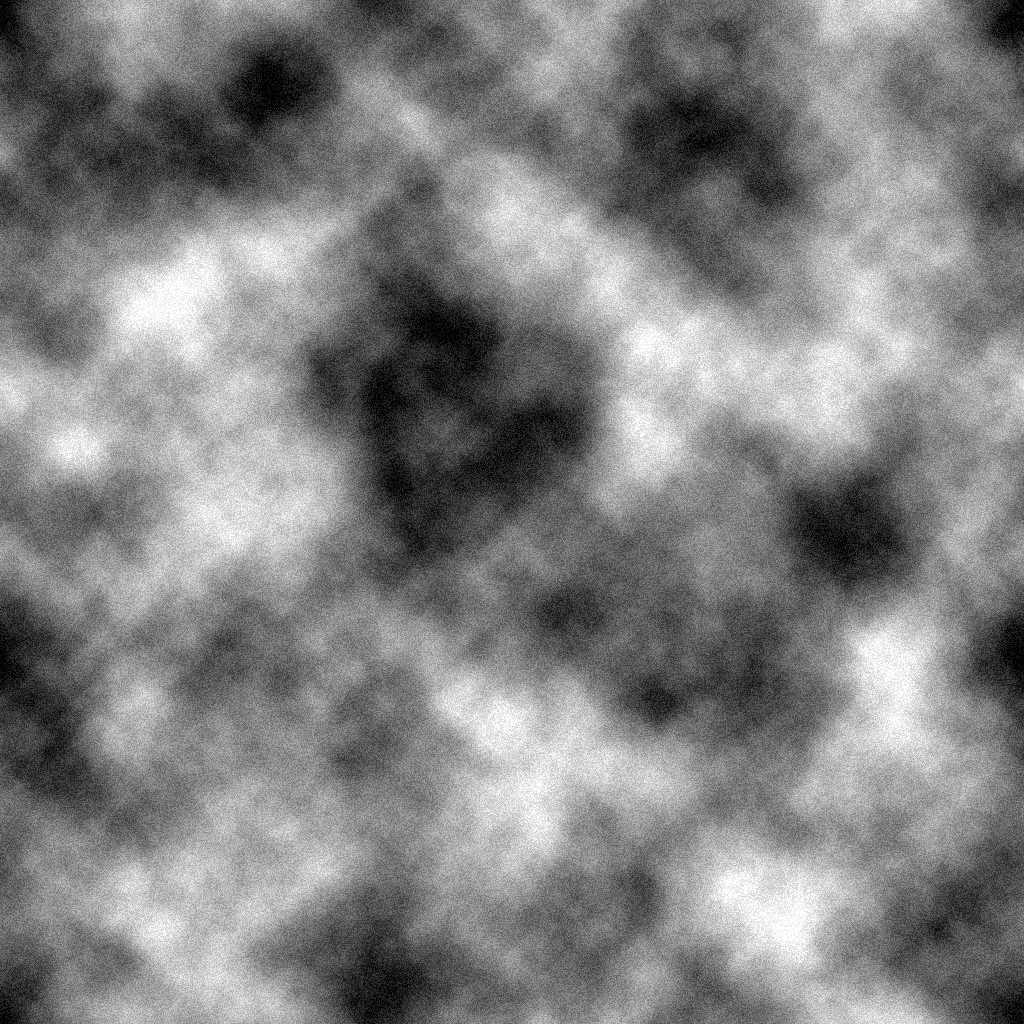
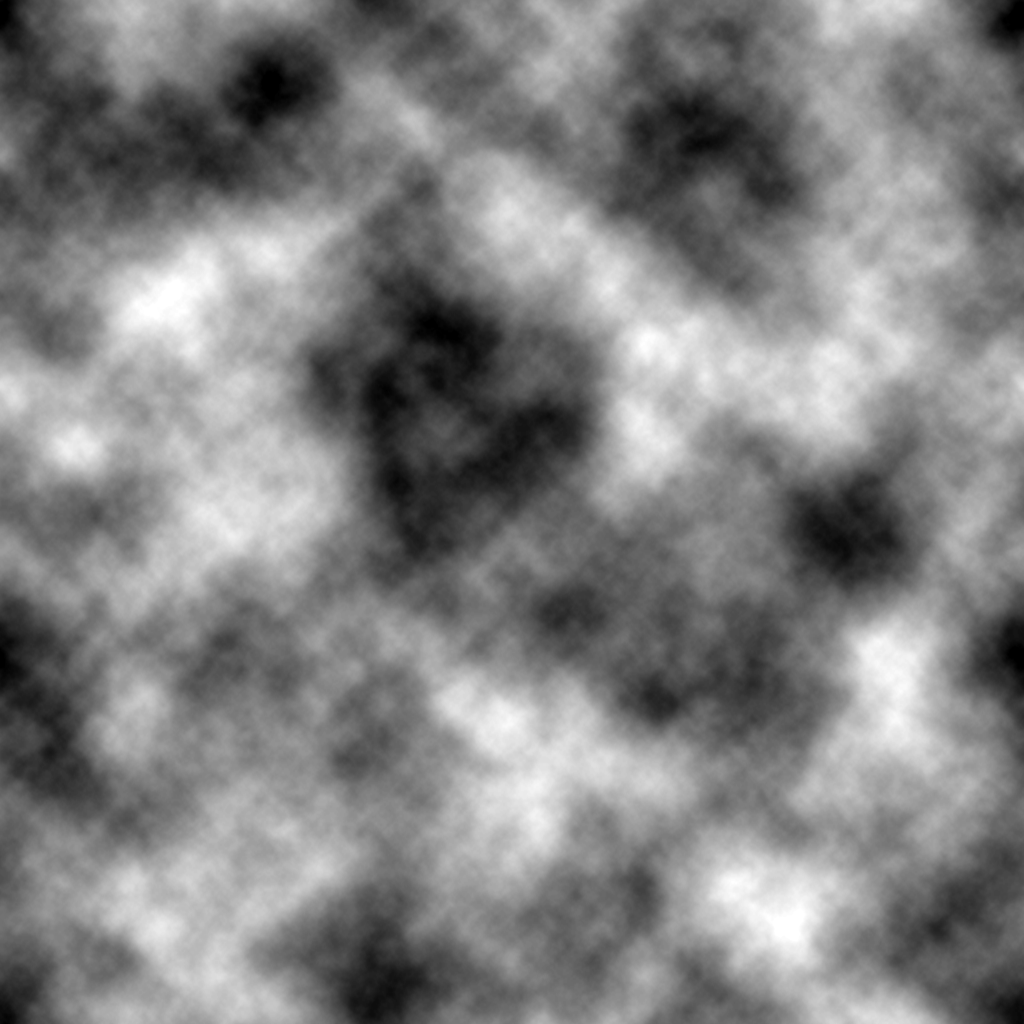
Root water in world position

Changed region(s): [[0.9375, 0.0938, 0.9688, 0.125]]

diff --git a/PhotoVs/PhotoVs.Logic/Mechanics/World/Systems/SRenderOverworld.cs b/PhotoVs/PhotoVs.Logic/Mechanics/World/Systems/SRenderOverworld.cs
@@ -90,7 +90,7 @@ namespace PhotoVs.Logic.Mechanics.World.Systems
             _dayNight.AddPoint(0.82291667f, assetLoader.Get<Texture2D>("luts/daycycle9.png"));
             _dayNight.AddPoint(0.90625f, assetLoader.Get<Texture2D>("luts/daycycle10.png"));
 
-            var ts = TimeSpan.FromMinutes(1);
+            var ts = TimeSpan.FromSeconds(20);
             timeScale = (float)ts.TotalSeconds;
         }
 
@@ -107,6 +107,8 @@ namespace PhotoVs.Logic.Mechanics.World.Systems
 
         public void Draw(GameTime gameTime, IGameObjectCollection gameObjects)
         {
+            var cameraRect = _camera.VisibleArea();
+
             _wind.Update(gameTime);
             _windDir += (_wind.Direction * _wind.Force * 0.00005f);
 
@@ -197,23 +199,23 @@ namespace PhotoVs.Logic.Mechanics.World.Systems
 
             _renderer.RequestSubRenderer(_water);
 
-            _renderer.SpriteBatch.Begin(SpriteSortMode.Immediate, BlendState.AlphaBlend, SamplerState.PointWrap);
+            _renderer.SpriteBatch.Begin(SpriteSortMode.Immediate, BlendState.AlphaBlend, SamplerState.PointWrap, transformMatrix: _camera.Transform);
 
             _waterEffect.Parameters["Texture"].SetValue(_material);
             _waterEffect.Parameters["texNoiseA"].SetValue(_noiseA);
             _waterEffect.Parameters["texNoiseB"].SetValue(_noiseB);
 
-            var texSize = 1024;
-            var cRect = _camera.VisibleArea();
-            _waterEffect.Parameters["offsetXA"].SetValue(((waterA.X + cRect.Left) % texSize) / texSize);
-            _waterEffect.Parameters["offsetYA"].SetValue(((waterA.Y + cRect.Top) % texSize) / texSize);
-            _waterEffect.Parameters["offsetXB"].SetValue(((waterB.X + cRect.Left) % texSize) / texSize);
-            _waterEffect.Parameters["offsetYB"].SetValue(((waterB.Y + cRect.Top) % texSize) / texSize);
+            var texSize = 1024f;
+            var tPos = (new Vector2(cameraRect.Left, cameraRect.Top));
+            _waterEffect.Parameters["offsetXA"].SetValue(((waterA.X + tPos.X) % _material.Width) / _material.Width);
+            _waterEffect.Parameters["offsetYA"].SetValue(((waterA.Y + tPos.Y) % _material.Height) / _material.Height);
+            _waterEffect.Parameters["offsetXB"].SetValue(((waterB.X + tPos.X) % _material.Width) / _material.Width);
+            _waterEffect.Parameters["offsetYB"].SetValue(((waterB.Y + tPos.Y) % _material.Height) / _material.Height);
 
 
             _waterEffect.CurrentTechnique.Passes[0].Apply();
 
-            _renderer.SpriteBatch.Draw(_material, Vector2.Zero, Color.White);
+            _renderer.SpriteBatch.Draw(_material, cameraRect, Color.White);
 
             _renderer.SpriteBatch.End();
 
@@ -227,7 +229,7 @@ namespace PhotoVs.Logic.Mechanics.World.Systems
             _renderer.RequestSubRenderer(_combinedWater);
             _renderer.SpriteBatch.Begin(SpriteSortMode.Immediate, BlendState.AlphaBlend, SamplerState.PointWrap);
             _renderer.SpriteBatch.Draw(_water, Vector2.Zero, Color.White * 0.4f);
-            _renderer.SpriteBatch.Draw(_waterReflection, Vector2.Zero, Color.White);
+            _renderer.SpriteBatch.Draw(_waterReflection, Vector2.Zero, Color.White * 0.95f);
             _renderer.SpriteBatch.End();
             _renderer.RelinquishSubRenderer();
 
@@ -237,15 +239,15 @@ namespace PhotoVs.Logic.Mechanics.World.Systems
 
 
             _renderer.RequestSubRenderer(_waterDisplace);
-            _renderer.SpriteBatch.Begin(SpriteSortMode.Immediate, BlendState.AlphaBlend, SamplerState.PointWrap);
+            _renderer.SpriteBatch.Begin(SpriteSortMode.Immediate, BlendState.AlphaBlend, SamplerState.PointWrap, transformMatrix: _camera.Transform);
             _displaceEffect.Parameters["Texture"].SetValue(_combinedWater);
             _displaceEffect.Parameters["texDisplace"].SetValue(_displacementTexture);
-            _displaceEffect.Parameters["offsetX"].SetValue((((waterA.X / 4) + _playerPosition.Position.X) % 128) / 128);
-            _displaceEffect.Parameters["offsetY"].SetValue((((waterA.Y / 4) + _playerPosition.Position.Y) % 64) / 64);
+            _displaceEffect.Parameters["offsetX"].SetValue(((waterA.X + tPos.X) % _material.Width) / _material.Width);
+            _displaceEffect.Parameters["offsetY"].SetValue(((waterA.Y + tPos.Y) % _material.Height) / _material.Height);
             _displaceEffect.Parameters["pixWidth"].SetValue(1f / _waterDisplace.Width);
             _displaceEffect.Parameters["pixHeight"].SetValue(1f / _waterDisplace.Height);
             _displaceEffect.CurrentTechnique.Passes[0].Apply();
-            _renderer.SpriteBatch.Draw(_combinedWater, Vector2.Zero, Color.White);
+            _renderer.SpriteBatch.Draw(_combinedWater, cameraRect, Color.White);
             _renderer.SpriteBatch.End();
             _renderer.RelinquishSubRenderer();
 
@@ -270,7 +272,7 @@ namespace PhotoVs.Logic.Mechanics.World.Systems
 
             var output = _colorGrade.Filter(_spriteBatch, _final);
             _spriteBatch.Begin(SpriteSortMode.Deferred, BlendState.AlphaBlend, SamplerState.PointClamp);
-            _spriteBatch.Draw(output, Vector2.Zero, Color.White);
+            _spriteBatch.Draw(_final, Vector2.Zero, Color.White);
             _spriteBatch.End();
 
 

diff --git a/PhotoVs/PhotoVs.Logic/Scenes/OverworldScene.cs b/PhotoVs/PhotoVs.Logic/Scenes/OverworldScene.cs
@@ -35,8 +35,8 @@ namespace PhotoVs.Logic.Scenes
             Systems = new SystemCollection<ISystem>
             {
                 new SRenderOverworld(_world, spriteBatch, camera, scene.Services),
-                new SCollisionDebugRender(spriteBatch, assetLoader,
-                    _world, camera),
+                //new SCollisionDebugRender(spriteBatch, assetLoader,
+                //    _world, camera),
                 new SCollisionResolution(_world, camera, events),
                 new SProcessInteractionEvents(events, camera, _world)
             };
